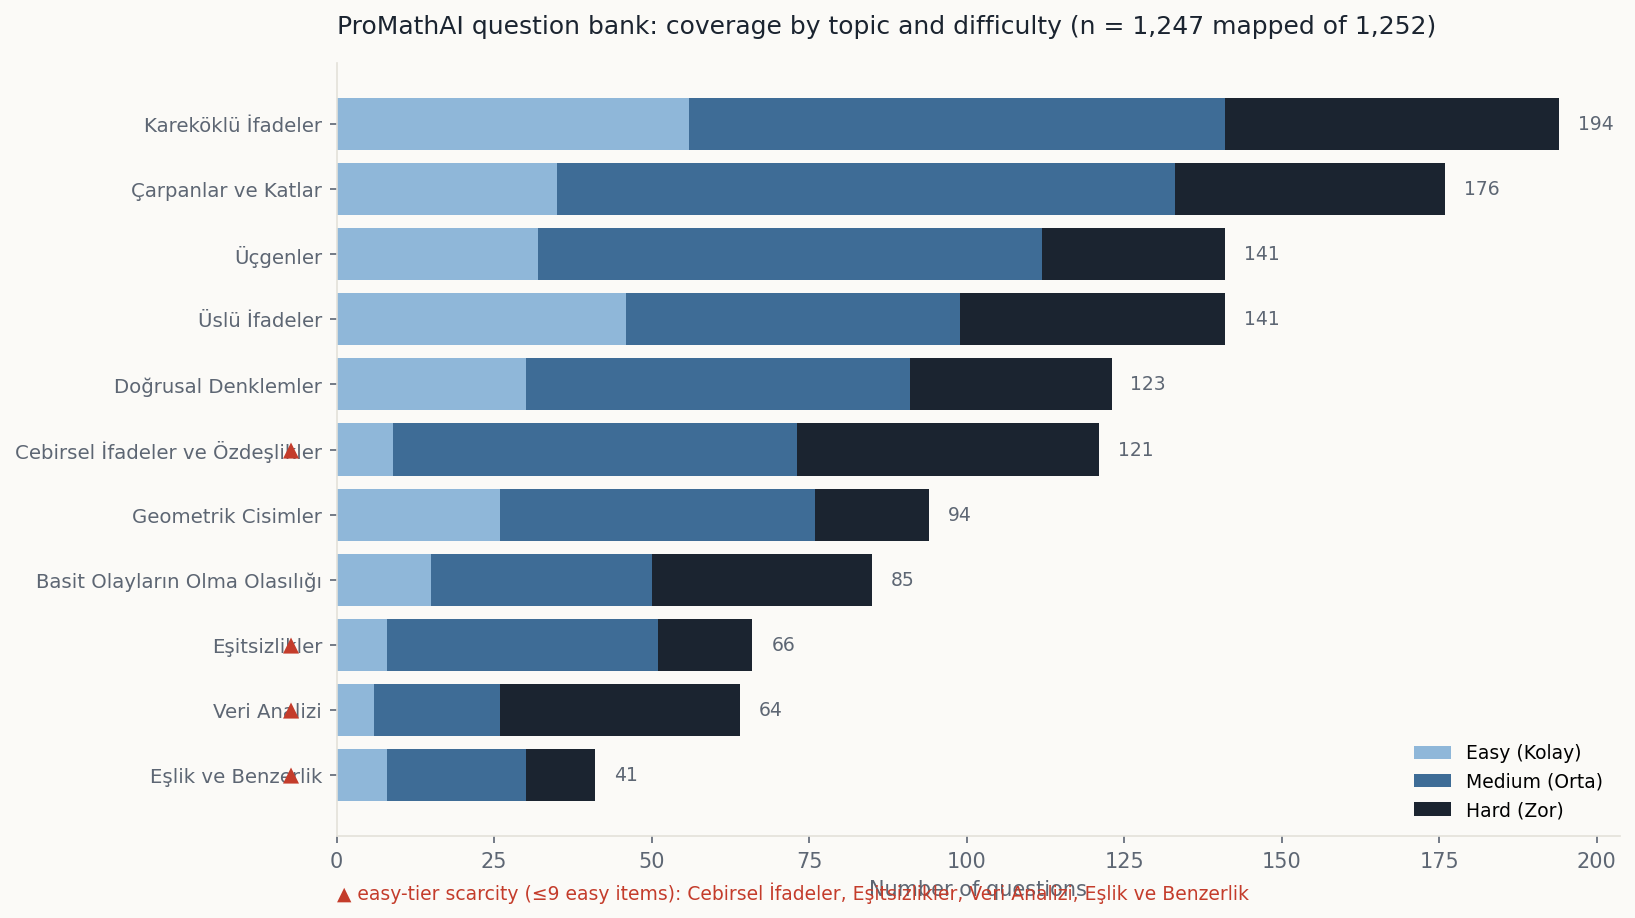
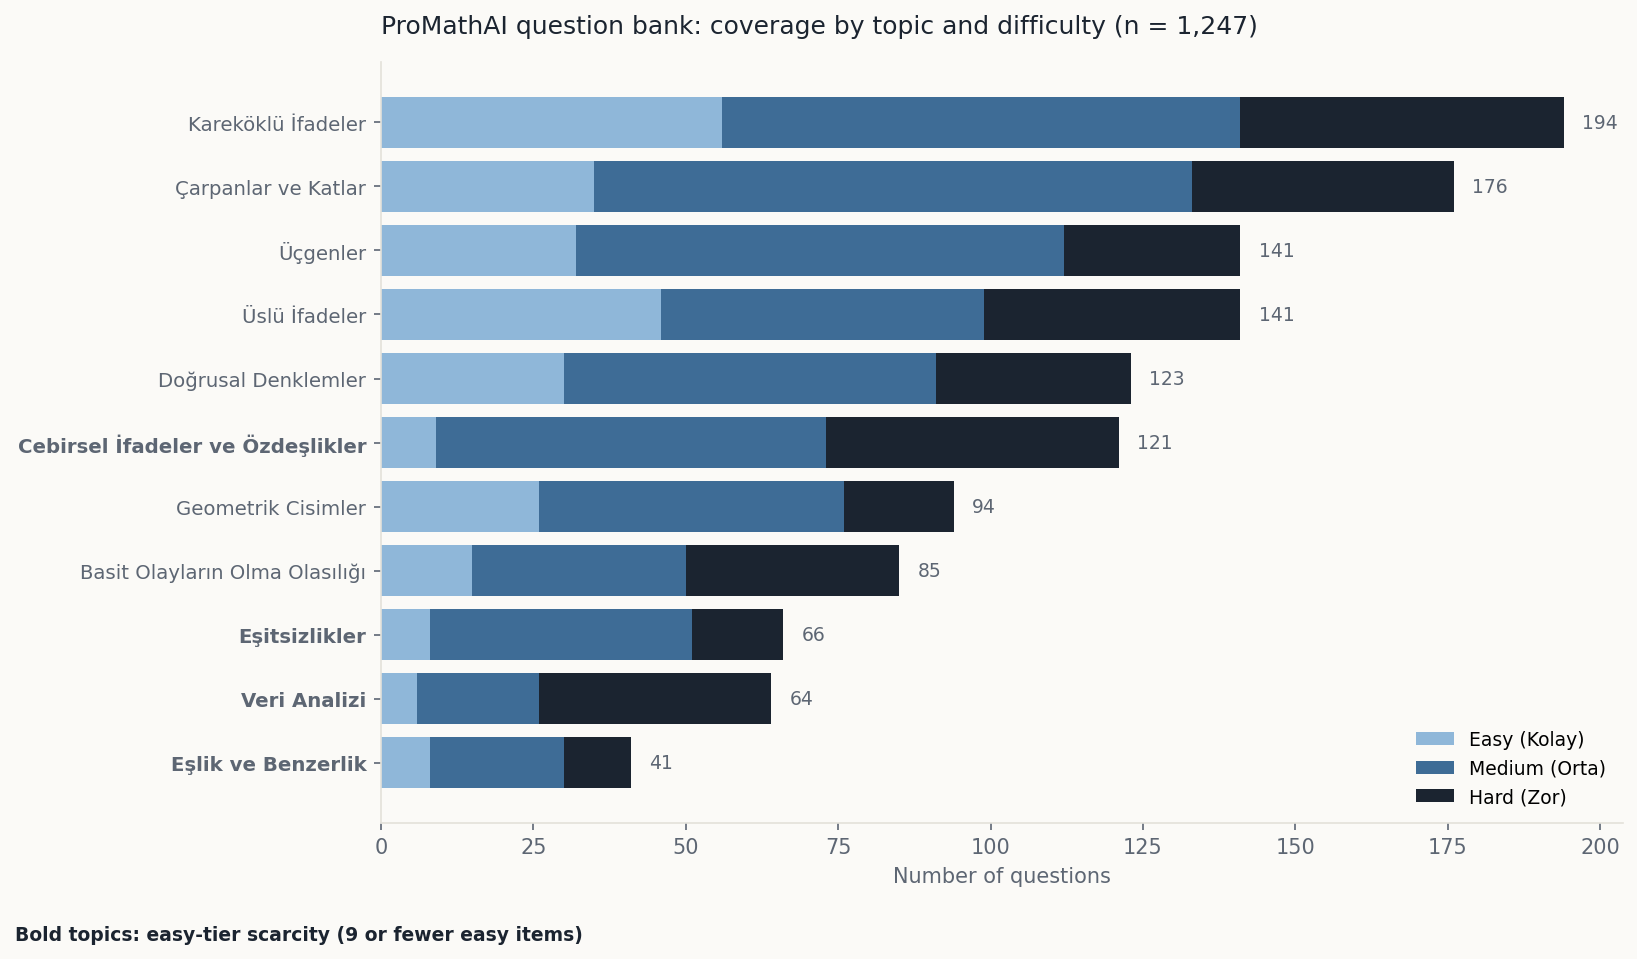
adding new things into three main projects

diff --git a/promathai-analytics.html b/promathai-analytics.html
@@ -70,11 +70,11 @@
   <section class="section">
     <h2>Findings at a glance</h2>
     <div class="finding-grid">
-      <div class="finding"><span class="sev high">High</span><p>Three curriculum objectives have <b>zero questions</b>. All three are figure-heavy: transformations and pyramids.</p></div>
+      <div class="finding"><span class="sev high">High</span><p>Three curriculum objectives have <b>zero questions</b>, and the gap is user-visible: selecting one shows an empty-state message. All three are figure-heavy.</p></div>
       <div class="finding"><span class="sev high">High</span><p><b>AI generation can't fill the gaps:</b> it needs a seed question to react to. 0 of 107 generated items landed in the empty objectives.</p></div>
       <div class="finding"><span class="sev high">High</span><p>One topic is <b>+97 items over</b> its exam weight; four others run far under. Root cause: authoring followed the calendar.</p></div>
       <div class="finding"><span class="sev high">High</span><p><b>Easy-tier scarcity</b> in four topics undermines the product's reinforcement loop for struggling students.</p></div>
-      <div class="finding"><span class="sev med">Medium</span><p>One question pointed to a <b>non-existent difficulty level</b>. Root cause: no foreign-key constraint. Fixed, then prevented.</p></div>
+      <div class="finding"><span class="sev med">Medium</span><p>One question pointed to a <b>non-existent difficulty level</b>. Root cause: no foreign-key constraint. Fixed after review; constraints recommended to prevent recurrence.</p></div>
       <div class="finding"><span class="sev low">Clean</span><p>Referential integrity otherwise spotless: <b>zero orphans, zero duplicates</b> across 1,247 items.</p></div>
     </div>
   </section>

diff --git a/index.html b/index.html
@@ -76,7 +76,7 @@
       <h3>Leadership Reporting Agent · Stature Leadership</h3>
       <dl class="facts">
         <div class="row"><dt>Problem</dt><dd>Coaches spent hours turning leadership survey data into client-ready reports, time that came out of coaching sessions.</dd></div>
-        <div class="row"><dt>Built</dt><dd>A multi-agent reporting system: a scoring and statistics engine (repeated-measures ANOVA, regression), report drafting grounded in a curated knowledge base, and an interface where coaches review and refine every draft before export.</dd></div>
+        <div class="row"><dt>Built</dt><dd>A 3+1 agent reporting system: three pillar agents (Awareness, Influence, Resilience) and an orchestrator, grounded in a curated knowledge base and a scoring engine (repeated-measures ANOVA, regression, impact scores). Coaches review and refine every draft, then export to Word and PDF.</dd></div>
         <div class="row"><dt>Outcome</dt><dd>End-to-end automation from survey intake to emailed reports, cutting manual workload and turnaround time while keeping coaches in control.</dd></div>
       </dl>
       <p class="links">

diff --git a/neighbourhood-social.html b/neighbourhood-social.html
@@ -77,7 +77,7 @@
     </p>
     <figure class="shot">
       <img src="assets/nsh-home.png" alt="The Neighbourhood Social House launch website" onerror="this.parentElement.style.display='none'">
-      <figcaption>The launch site: opening date, location, and the character of the place, front and centre.</figcaption>
+      <figcaption>The site today: the owner's "warm and local" brief, translated into a working product. Live at neighbourhoodsocial.ca.</figcaption>
     </figure>
     <p>
       A small project by line count. But the skill it demonstrates is the one I use everywhere: